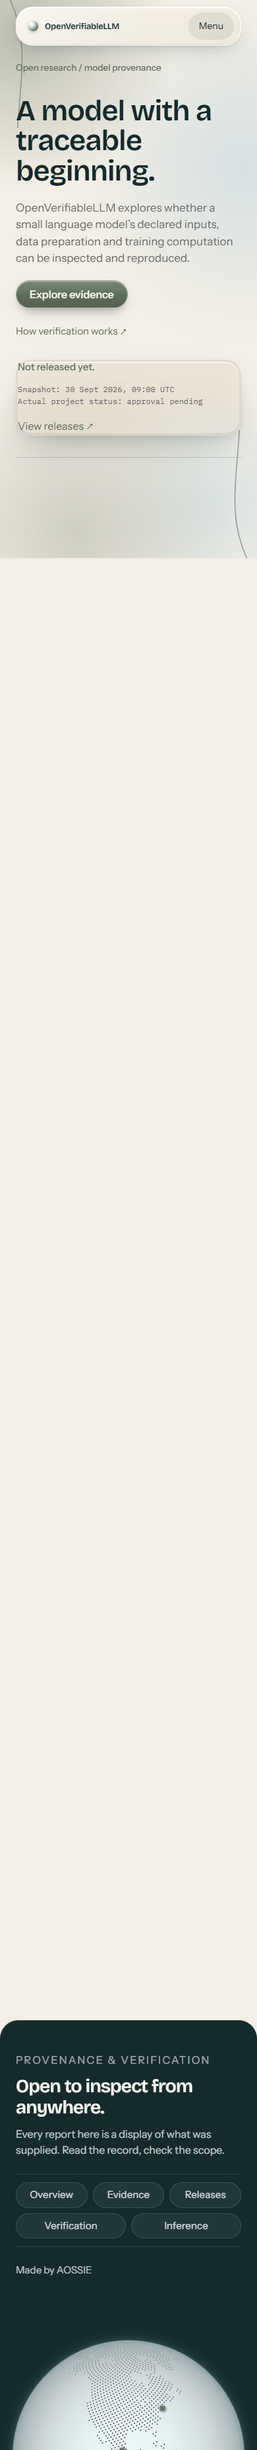
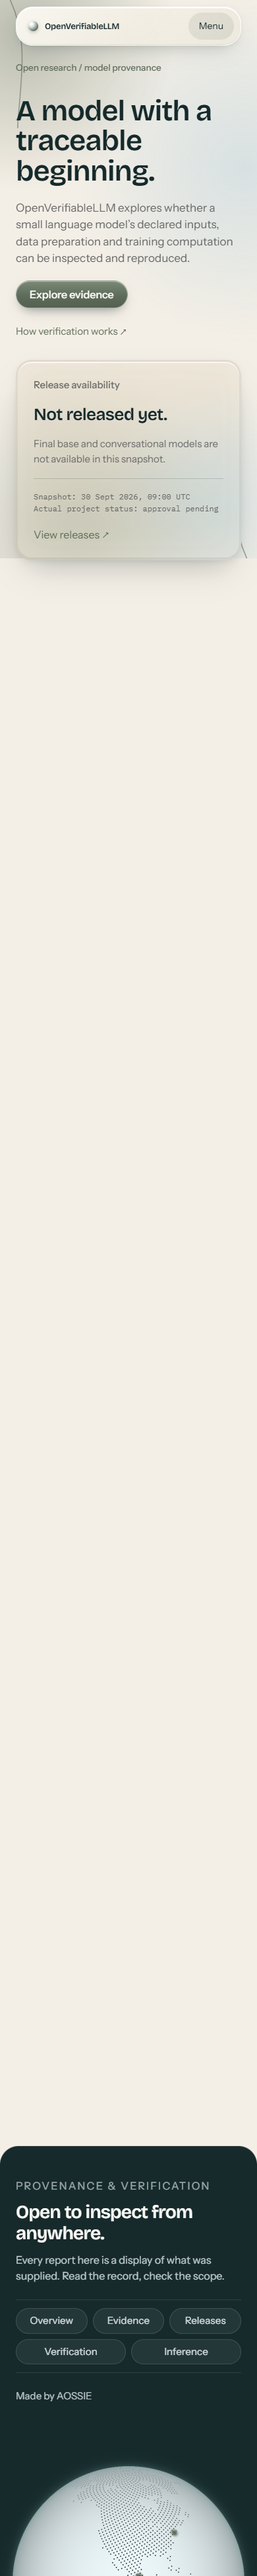
fix(mobile): restore full glassmorphic card styling and content to research note on mobile

diff --git a/frontend/src/styles.css b/frontend/src/styles.css
@@ -224,10 +224,8 @@ pre { white-space:pre-wrap; overflow-wrap:anywhere; max-height:360px; overflow:a
   .hero { grid-template-columns:minmax(0,1fr); gap:32px; }
   .hero h1 { font-size:44px; } .desktop-break { display:none; }
   .hero .intro { font-size:17px; }
-  .research-note { background:none; box-shadow:none; border:0; -webkit-backdrop-filter:none; backdrop-filter:none; padding:0; gap:16px; }
-  .research-note::before { display:none; }
-  .research-note h2 { font-family:"Instrument Sans",sans-serif; font-size:15px; font-weight:500; letter-spacing:0; color:var(--sage); }
-  .research-note > .eyebrow,.research-note > p,.research-note > hr { display:none; }
+  .research-note { padding:24px; gap:18px; border-radius:20px; }
+  .research-note h2 { font-size:26px; line-height:1.2; }
   .research-note .mono p { font-size:12px; }
   .process { grid-template-columns:minmax(0,1fr); gap:24px; }
   h1,h2 { font-size:38px; } .intro { font-size:17px; }
